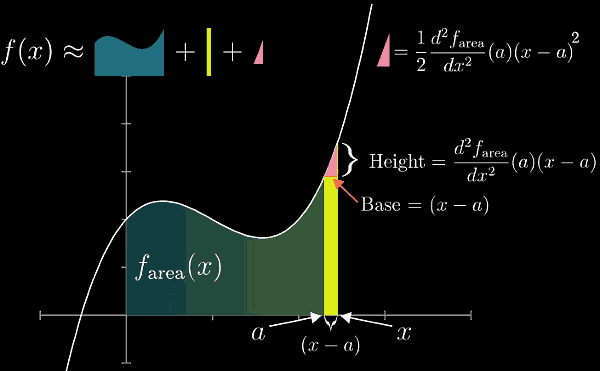
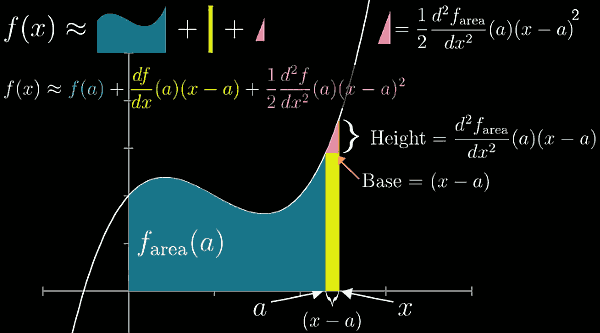
m

diff --git a/dev_notes/essenceOfCalculus.md b/dev_notes/essenceOfCalculus.md
@@ -350,10 +350,18 @@
 
  - One of the simplest meaningful examples is eˣ , around the input x=0. 
     - ![](../imgs/eoc_ts_14.png)
- - A geometric view  to understand the second order term.  d²f/dx²(x) (x-a)².
+ - A geometric view  to understand the second order term.  d²f/dx²(a) (x-a)².
     - It's related to the fundamental theorem of calculus: graph itself represents the derivative of the area function.
-    - 
-    - The red triangle is exactly what you see with Taylor polynomials. 
+    - ![](../imgs/eoc_ts_15.png)
+    - Each term has a clear meaning you can point to on the diagram, and they are exactly what you see with Taylor polynomials. 
+ - If you add up infinite Taylor polynomial terms , it's called Taylor series.
+    - for functions like eˣ , the taylor series converges to eˣ for any input, even though these Taylor polynomials are constructed only from derivative information gathered at input 0. 
+        - ![](../imgs/eoc_ts_14.png)
+        - In case like this, we say eˣ equals its own Taylor series at all inputs x, which is kind of a magical thing to have happen.
+        - Although this is also true for some other important functions, like sine and cosine, sometimes these series only converge with a certain range around the input whose derivative information you're using.
+    - buf for functions like ln(x), around the input x=1.
+        - When you plug in an input between 0 and 2, adding more and more terms of this series will indeed get you closer and closer to the ln of that input. 
+    
  
 
 
